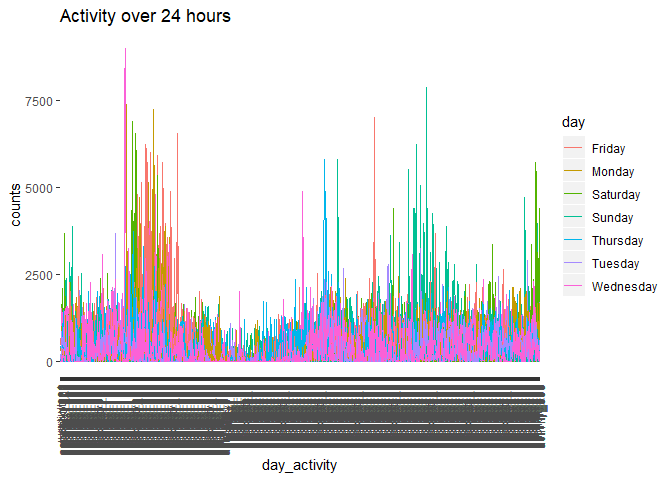
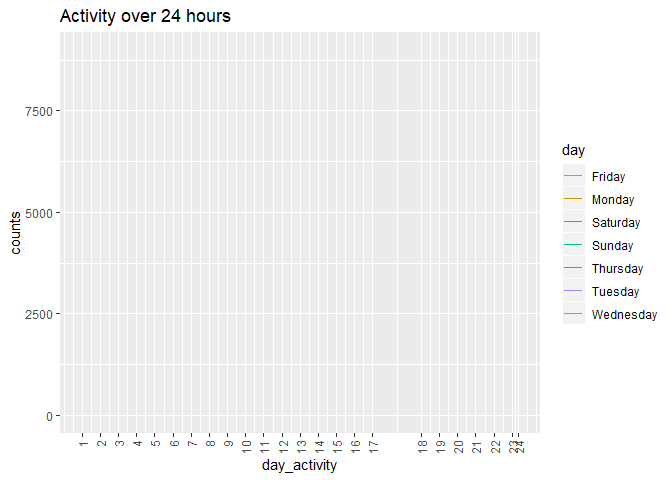
still trying to figure out the plot-also oops for not having more specific commit messages earlier

diff --git a/p8105_hw3_ilz2105.md b/p8105_hw3_ilz2105.md
@@ -375,14 +375,15 @@ accel
     ## #   activity.102 <dbl>, activity.103 <dbl>, activity.104 <dbl>, ...
 
 ``` r
-#c lean data
+#clean data
 tidy_accel = accel %>% 
   janitor::clean_names() %>% 
   mutate(
     new_day = if_else(day %in% c("Monday", "Tuesday", "Wednesday", "Thursday", "Friday"), "weekday", day),
     new_day = if_else(day %in% c("Saturday", "Sunday"), "weekend", new_day)
   ) %>% 
-select(week, day_id, day, new_day, activity_1:activity_1440) 
+select(week, day_id, day, new_day, activity_1:activity_1440)
+  
   
 tidy_accel
 ```
@@ -435,6 +436,44 @@ tidy_accel
     ## #   activity_99 <dbl>, activity_100 <dbl>, activity_101 <dbl>,
     ## #   activity_102 <dbl>, activity_103 <dbl>, activity_104 <dbl>, ...
 
+``` r
+#tidy with pivot
+tidy_accel_2 = accel %>% 
+  janitor::clean_names() %>% 
+  pivot_longer(
+    activity_1:activity_1440,
+    names_to = "day_activity",
+    names_prefix = "activity",
+    values_to = "counts"
+  ) %>%
+  mutate(
+    new_day = if_else(day %in% c("Monday", "Tuesday", "Wednesday", "Thursday", "Friday"), "weekday", day),
+    new_day = if_else(day %in% c("Saturday", "Sunday"), "weekend", new_day),
+    day_activity = as.integer(day_activity)
+  )  
+```
+
+    ## Warning: NAs introduced by coercion
+
+``` r
+tidy_accel_2
+```
+
+    ## # A tibble: 50,400 x 6
+    ##     week day_id day    day_activity counts new_day
+    ##    <dbl>  <dbl> <chr>         <int>  <dbl> <chr>  
+    ##  1     1      1 Friday           NA   88.4 weekday
+    ##  2     1      1 Friday           NA   82.2 weekday
+    ##  3     1      1 Friday           NA   64.4 weekday
+    ##  4     1      1 Friday           NA   70.0 weekday
+    ##  5     1      1 Friday           NA   75.0 weekday
+    ##  6     1      1 Friday           NA   66.3 weekday
+    ##  7     1      1 Friday           NA   53.8 weekday
+    ##  8     1      1 Friday           NA   47.8 weekday
+    ##  9     1      1 Friday           NA   55.5 weekday
+    ## 10     1      1 Friday           NA   43.0 weekday
+    ## # ... with 50,390 more rows
+
 Above, I created a new variable `new_day` that tells me whether the
 `day` is a `weekend` or `weekday`. I kept all of the original columns,
 and did not choose to `pivot_longer` here because I wanted to be able to
@@ -447,80 +486,107 @@ Are any trends apparent?
 
 ``` r
 # total activity sum for each day
-tidy_accel %>%
-pivot_longer(
-    activity_1:activity_1440,
-    names_to = "day_activity",
-    values_to = "counts"
-  ) %>% 
+tidy_accel_2 %>%
   group_by(day_id, day, new_day) %>% 
   summarize(day_activity = sum(counts)) %>% 
   select(day_id, new_day, day_activity) %>% 
-  knitr::kable(format = 'pandoc', main = "total activity counts per day") 
+  knitr::kable(format = 'pandoc', main = "total activity counts per day")
 ```
 
-| day          |   day\_id | new\_day   |                                                                                         day\_activity |
-| :----------- | --------: | :--------- | ----------------------------------------------------------------------------------------------------: |
-| Friday       |         1 | weekday    |                                                                                             480542.62 |
-| Monday       |         2 | weekday    |                                                                                              78828.07 |
-| Saturday     |         3 | weekend    |                                                                                             376254.00 |
-| Sunday       |         4 | weekend    |                                                                                             631105.00 |
-| Thursday     |         5 | weekday    |                                                                                             355923.64 |
-| Tuesday      |         6 | weekday    |                                                                                             307094.24 |
-| Wednesday    |         7 | weekday    |                                                                                             340115.01 |
-| Friday       |         8 | weekday    |                                                                                             568839.00 |
-| Monday       |         9 | weekday    |                                                                                             295431.00 |
-| Saturday     |        10 | weekend    |                                                                                             607175.00 |
-| Sunday       |        11 | weekend    |                                                                                             422018.00 |
-| Thursday     |        12 | weekday    |                                                                                             474048.00 |
-| Tuesday      |        13 | weekday    |                                                                                             423245.00 |
-| Wednesday    |        14 | weekday    |                                                                                             440962.00 |
-| Friday       |        15 | weekday    |                                                                                             467420.00 |
-| Monday       |        16 | weekday    |                                                                                             685910.00 |
-| Saturday     |        17 | weekend    |                                                                                             382928.00 |
-| Sunday       |        18 | weekend    |                                                                                             467052.00 |
-| Thursday     |        19 | weekday    |                                                                                             371230.00 |
-| Tuesday      |        20 | weekday    |                                                                                             381507.00 |
-| Wednesday    |        21 | weekday    |                                                                                             468869.00 |
-| Friday       |        22 | weekday    |                                                                                             154049.00 |
-| Monday       |        23 | weekday    |                                                                                             409450.00 |
-| Saturday     |        24 | weekend    |                                                                                               1440.00 |
-| Sunday       |        25 | weekend    |                                                                                             260617.00 |
-| Thursday     |        26 | weekday    |                                                                                             340291.00 |
-| Tuesday      |        27 | weekday    |                                                                                             319568.00 |
-| Wednesday    |        28 | weekday    |                                                                                             434460.00 |
-| Friday       |        29 | weekday    |                                                                                             620860.00 |
-| Monday       |        30 | weekday    |                                                                                             389080.00 |
-| Saturday     |        31 | weekend    |                                                                                               1440.00 |
-| Sunday       |        32 | weekend    |                                                                                             138421.00 |
-| Thursday     |        33 | weekday    |                                                                                             549658.00 |
-| Tuesday      |        34 | weekday    |                                                                                             367824.00 |
-| Wednesday    |        35 | weekday    |                                                                                             445366.00 |
-| Activity app | ears to b | e higher o | n some Mondays and most weekends compared to Tuesday-Friday. There does not appear to be any distinct |
-| trends in th | e data ju | st from lo |                           oking at the values for `day_activity` and comparing them to the `day`. The |
-| weekdays see |  m pretty | consistent |                   in value for the most part, staying between 300,000 to 500,000 with some days going |
-| lower or hig | her. It i | s difficul |                                                                  t to tell without looking at a plot. |
+| day       | day\_id | new\_day | day\_activity |
+| :-------- | ------: | :------- | ------------: |
+| Friday    |       1 | weekday  |     480542.62 |
+| Monday    |       2 | weekday  |      78828.07 |
+| Saturday  |       3 | weekend  |     376254.00 |
+| Sunday    |       4 | weekend  |     631105.00 |
+| Thursday  |       5 | weekday  |     355923.64 |
+| Tuesday   |       6 | weekday  |     307094.24 |
+| Wednesday |       7 | weekday  |     340115.01 |
+| Friday    |       8 | weekday  |     568839.00 |
+| Monday    |       9 | weekday  |     295431.00 |
+| Saturday  |      10 | weekend  |     607175.00 |
+| Sunday    |      11 | weekend  |     422018.00 |
+| Thursday  |      12 | weekday  |     474048.00 |
+| Tuesday   |      13 | weekday  |     423245.00 |
+| Wednesday |      14 | weekday  |     440962.00 |
+| Friday    |      15 | weekday  |     467420.00 |
+| Monday    |      16 | weekday  |     685910.00 |
+| Saturday  |      17 | weekend  |     382928.00 |
+| Sunday    |      18 | weekend  |     467052.00 |
+| Thursday  |      19 | weekday  |     371230.00 |
+| Tuesday   |      20 | weekday  |     381507.00 |
+| Wednesday |      21 | weekday  |     468869.00 |
+| Friday    |      22 | weekday  |     154049.00 |
+| Monday    |      23 | weekday  |     409450.00 |
+| Saturday  |      24 | weekend  |       1440.00 |
+| Sunday    |      25 | weekend  |     260617.00 |
+| Thursday  |      26 | weekday  |     340291.00 |
+| Tuesday   |      27 | weekday  |     319568.00 |
+| Wednesday |      28 | weekday  |     434460.00 |
+| Friday    |      29 | weekday  |     620860.00 |
+| Monday    |      30 | weekday  |     389080.00 |
+| Saturday  |      31 | weekend  |       1440.00 |
+| Sunday    |      32 | weekend  |     138421.00 |
+| Thursday  |      33 | weekday  |     549658.00 |
+| Tuesday   |      34 | weekday  |     367824.00 |
+| Wednesday |      35 | weekday  |     445366.00 |
+
+Activity appears to be higher on some Mondays and most weekends compared
+to Tuesday-Friday. There does not appear to be any distinct trends in
+the data just from looking at the values for `day_activity` and
+comparing them to the `day`. The weekdays seem pretty consistent in
+value for the most part, staying between 300,000 to 500,000 with some
+days going lower or higher. It is difficult to tell without looking at a
+plot.
 
 Below, I made a single-panel plot that shows the 24-hour activity time
 courses for each day and used color to indicate day of the week.
 
 ``` r
-#plot
+#plot attemp 1
 activity_plot = tidy_accel %>% 
-  pivot_longer(
+    pivot_longer(
     activity_1:activity_1440,
     names_to = "day_activity",
     values_to = "counts"
   ) %>%
- 
-   
   ggplot(aes(x = day_activity , y = counts, group = day_id, color = day))+
   geom_line()+
+  theme(axis.text.x = element_text(angle = 90, hjust = 1, vjust = 0.5))+
+  labs(title = "Activity over 24 hours ")
+
+activity_plot
+```
+
+![](p8105_hw3_ilz2105_files/figure-gfm/unnamed-chunk-15-1.png)<!-- -->
+
+This plot is very dificult to see anything so below I tried\* to break
+up the xaxis and separate by days.
+
+``` r
+#plot  attempt 
+activity_plot = tidy_accel_2 %>% 
+  select(week, day, day_id, day_activity, counts) %>% 
+group_by(week, day, day_id) %>% 
+  ggplot(aes(x = day_activity, y = counts, group = week , color = day))+
+  geom_line()+
+  scale_x_continuous(
+    breaks = c(0, 60, 120, 180, 240, 300, 360, 420, 480, 540, 600, 660, 720, 780, 
+               840, 900, 960, 1120, 1180, 1240, 1300, 1360, 1420, 1440),
+    
+   labels = c("1" , "2" , "3", "4", "5", "6", "7", "8", "9", "10", "11", "12", "13",
+              "14", "15", "16", "17", "18", "19", "20", "21", "22", "23", "24"),
+    limits = c(0, 1440)
+  ) +
   theme(axis.text.x = element_text(angle = 90, hjust = 1, vjust = 0.5))+
   labs(title = "Activity over 24 hours ")
 
 activity_plot 
 ```
 
-![](p8105_hw3_ilz2105_files/figure-gfm/plot-1.png)<!-- --> Describe in
-words any patterns or conclusions you can make based on this graph
+    ## Warning: Removed 50400 rows containing missing values (geom_path).
+
+![](p8105_hw3_ilz2105_files/figure-gfm/plot-1.png)<!-- -->
+
+Describe in words any patterns or conclusions you can make based on this
+graph
